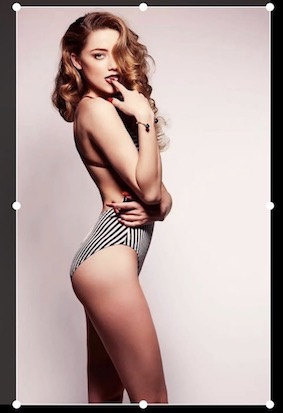
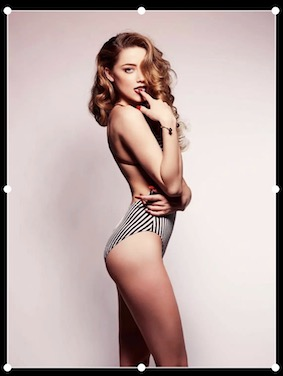
修复部分bug，新增边框样式选择

diff --git a/README.md b/README.md
@@ -36,7 +36,7 @@ self.imageresizerView = imageresizerView;
 self.imageresizerView.resizeImage = [UIImage imageNamed:@"Kobe.jpg"];
 self.imageresizerView.resizeWHScale = 16.0 / 9.0;
 ```
-#### 边框样式
+#### 更改边框样式
 ![image](https://github.com/Rogue24/JPImageresizerView/raw/master/Cover/JPConciseFrameTypeCover.jpeg)
 ![image](https://github.com/Rogue24/JPImageresizerView/raw/master/Cover/JPClassicFrameTypeCover.jpeg)
 ```ruby
